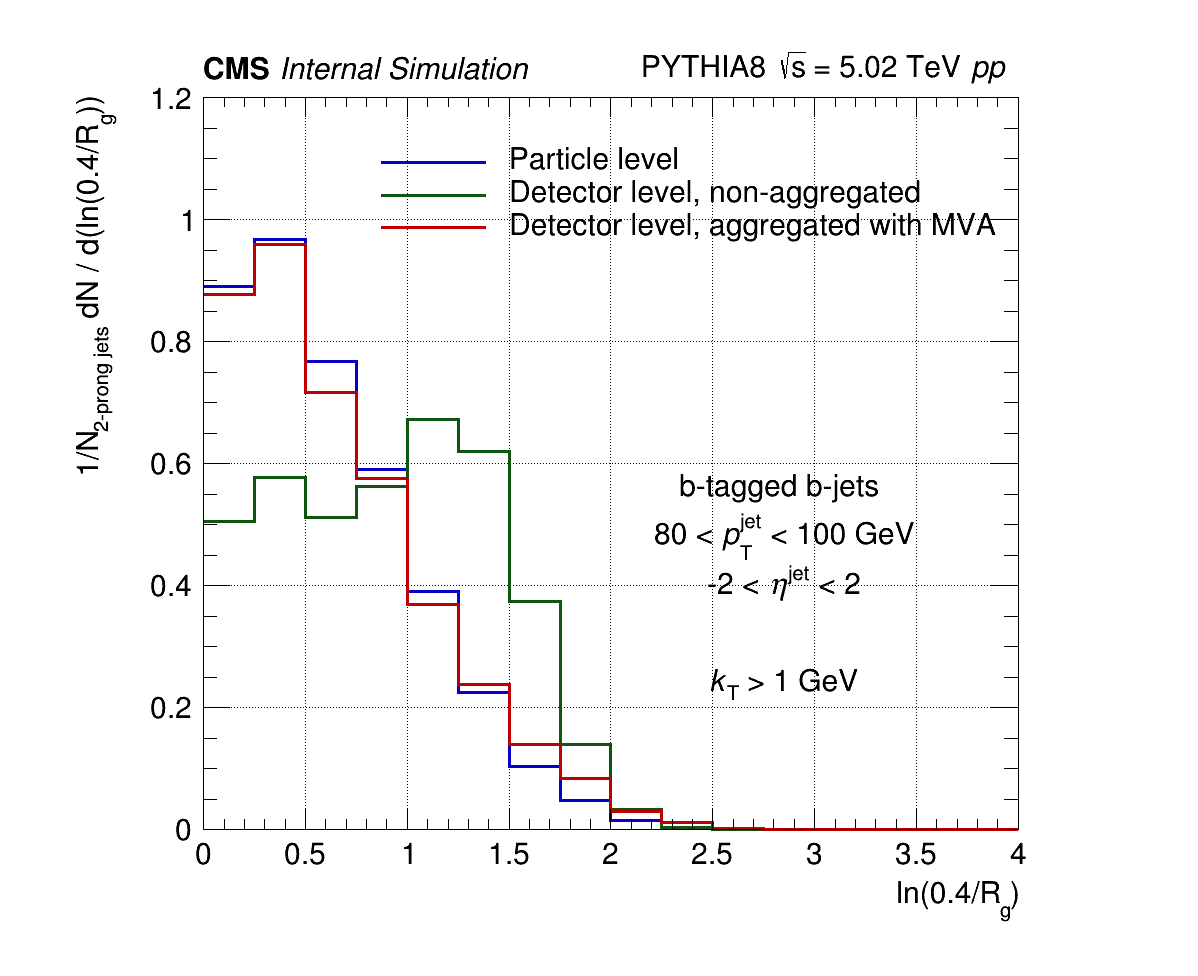
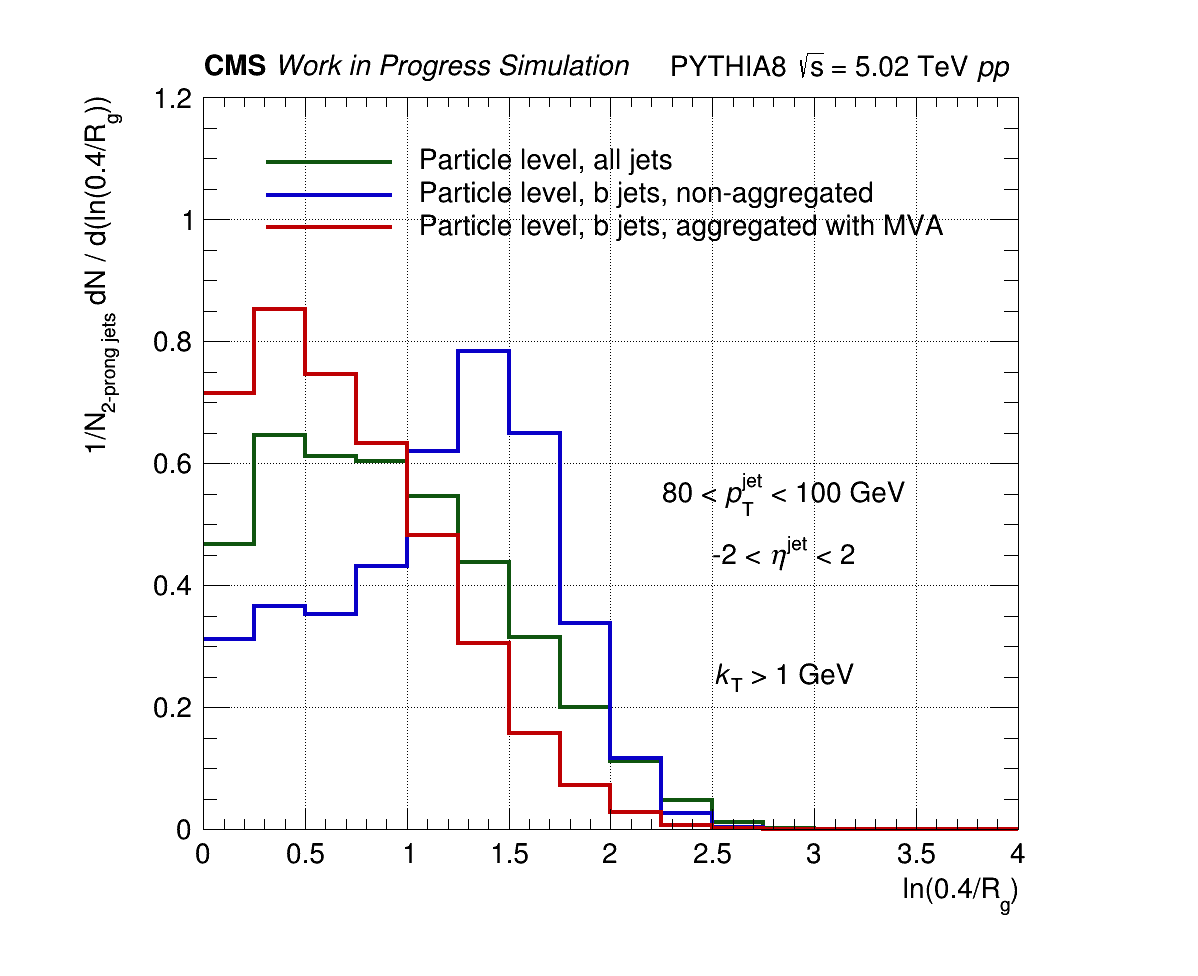
upadte rg distributions for poster

diff --git a/myMacros/C106X/plot_rg_poster.C b/myMacros/C106X/plot_rg_poster.C
@@ -2,10 +2,11 @@
 
 void plot_rg_poster()
 {
+    TString sample = "bjet";
     // TString label = "aggrGenNoReco_withY";
-    // TString label = "noAggr_withY";
-    TString label = "aggrTMVA_withY";
-    TString indir = "/data_CMS/cms/kalipoliti/qcdMC/bjet/" + label + "/";
+    TString label = "noAggr_withY";
+    // TString label = "aggrTMVA_particleNet";
+    TString indir = "/data_CMS/cms/kalipoliti/qcdMC/"+sample+"/" + label + "/";
     TString fin = indir + "merged_HiForestMiniAOD.root";
     tTree tree(fin);
     std::vector<TString> activeBranches = {"nref",
@@ -15,13 +16,14 @@ void plot_rg_poster()
                                            "rsjt2Phi", "rsjt2Y", "rsjt2Pt", "rsjt2Eta",
                                            "sjt1Phi", "sjt1Y", "sjt1Pt", "sjt1Eta",
                                            "sjt2Phi", "sjt2Y", "sjt2Pt", "sjt2Eta",
+                                           "weight"
                                            };
 
     tree.SetBranchStatus("*", 0);
     tree.SetBranchStatus(activeBranches, 1);
 
-    double ptMin = 80.;
-    double ptMax = 100.;
+    double ptMin = 100.;
+    double ptMax = 120.;
 
     double jetR = 0.4;
 
@@ -37,18 +39,25 @@ void plot_rg_poster()
     // Float_t x1min = 0.;
     // Float_t x1max = 0.5;
 
-    TH1F *hBtag_gen = new TH1F("hBtag_gen", "x=log(1/rg)", x1bins, x1min, x1max);
+    TH1F *hB_gen = new TH1F("hB_gen", "x=log(1/rg)", x1bins, x1min, x1max);
     TH1F *hL_gen = new TH1F("hL_gen", "x=log(1/rg)", x1bins, x1min, x1max);
+    TH1F *hC_gen = new TH1F("hC_gen", "x=log(1/rg)", x1bins, x1min, x1max);
+
+    TH1F *hBtag_gen = new TH1F("hBtag_gen", "x=log(1/rg)", x1bins, x1min, x1max);
+    
+    TH1F *hB = new TH1F("hB", "x=log(1/rg)", x1bins, x1min, x1max);
+    TH1F *hL = new TH1F("hL", "x=log(1/rg)", x1bins, x1min, x1max);
+    TH1F *hC = new TH1F("hC", "x=log(1/rg)", x1bins, x1min, x1max);
 
     TH1F *hBtag = new TH1F("hBtag", "x=log(1/rg)", x1bins, x1min, x1max);
-    // TH1F *hL = new TH1F("hL", "x=log(1/rg)", x1bins, x1min, x1max);
+
     TH2F *hBtag_rgkt = new TH2F("hBtag_rgkt", "x=log(1/rg), y=log(kt)", x1bins, x1min, x1max, x2bins, x2min, x2max);
     TH2F *hBtag_rgkt_gen = new TH2F("hBtag_rgkt_gen", "x=log(1/rg), y=log(kt)", x1bins, x1min, x1max, x2bins, x2min, x2max);
 
     TH2F *hBtag_2d = new TH2F("hBtag_2d", "x=reco, y=gen", x1bins, x1min, x1max, x1bins, x1min, x1max);
 
     for (Long64_t ient = 0; ient < tree.GetEntries(); ient++) {
-        if (ient > 1000000) break;
+        // if (ient > 1000000) break;
 
         if ((ient % 1000000) == 0) {
                 std::cout << "ient = " << ient << std::endl;
@@ -76,44 +85,53 @@ void plot_rg_poster()
             Float_t logrg = std::log(jetR / rg);
             Float_t logkt = std::log(kt);
 
-            bool passTag = (tree.discr_deepFlavour_b[ijet] + tree.discr_deepFlavour_bb[ijet] + tree.discr_deepFlavour_lepb[ijet]) > 0.9;
+            bool passTag = (tree.discr_deepFlavour_b[ijet] + tree.discr_deepFlavour_lepb[ijet]) > 0.7;
             
             if (tree.rsjt2Pt[ijet] > 0) {
                 if (tree.jtpt[ijet] > ptMin && tree.jtpt[ijet] < ptMax && kt_gen>1) {
                     if (tree.jtHadFlav[ijet] == 0) {
-                        hL_gen->Fill(logrg_gen);
-                    } else if (tree.jtHadFlav[ijet] == 5 && passTag) {
-                        hBtag_gen->Fill(logrg_gen);
+                        hL_gen->Fill(logrg_gen, tree.weight);
+                    } else if (tree.jtHadFlav[ijet] == 4) {
+                        hC_gen->Fill(logrg_gen, tree.weight);
+                    } else if (tree.jtHadFlav[ijet] == 5) {
+                        hB_gen->Fill(logrg_gen, tree.weight);
+                        if (passTag) hBtag_gen->Fill(logrg_gen, tree.weight);
                     }
                 }
                 if (tree.jtpt[ijet] > ptMin && tree.jtpt[ijet] < ptMax && tree.jtHadFlav[ijet] == 5 && passTag) {
-                    hBtag_rgkt_gen->Fill(logrg_gen, logkt_gen);
+                    hBtag_rgkt_gen->Fill(logrg_gen, logkt_gen, tree.weight);
                 }
             }
 
             if (tree.sjt2Pt[ijet] > 0) {
                 if (tree.jtpt[ijet] > ptMin && tree.jtpt[ijet] < ptMax && kt>1) {
                     if (tree.jtHadFlav[ijet] == 0) {
-                        // hL->Fill(rg);
-                    } else if (tree.jtHadFlav[ijet] == 5 && passTag) {
-                        hBtag->Fill(logrg);
+                        hL->Fill(rg, tree.weight);
+                    } else if (tree.jtHadFlav[ijet] == 4) {
+                        hC->Fill(rg, tree.weight);
+                    } else if (tree.jtHadFlav[ijet] == 5) {
+                        hB->Fill(logrg, tree.weight);
+                        if (passTag) hBtag->Fill(logrg, tree.weight);
                     }
                 }
                 if (tree.jtpt[ijet] > ptMin && tree.jtpt[ijet] < ptMax && tree.jtHadFlav[ijet] == 5 && passTag) {
-                    hBtag_rgkt->Fill(logrg, logkt);
+                    hBtag_rgkt->Fill(logrg, logkt, tree.weight);
                 }
             }
 
             if (tree.sjt2Pt[ijet] > 0 && tree.rsjt2Pt[ijet] > 0 && tree.jtHadFlav[ijet] == 5 && passTag) {
-                hBtag_2d->Fill(logrg, logrg_gen);
+                hBtag_2d->Fill(logrg, logrg_gen, tree.weight);
             }
         } // end jet loop
     } // end entry loop
 
-    TString foutName = "./histos_for_poster/" + label + ".root";
+    TString foutName = "./histos_for_poster/" +sample + "_" + label + "_rg.root";
     TFile *fout = new TFile(foutName, "recreate");
 
-    for (auto h : {hBtag, hBtag_gen, hL_gen}) {
+    for (auto h : {hB, hB_gen, 
+                   hBtag, hBtag_gen, 
+                   hL, hL_gen,
+                   hC, hC_gen}) {
         h->Write();
     }
     for (auto h : {hBtag_2d, hBtag_rgkt, hBtag_rgkt_gen}) {

diff --git a/myMacros/C106X/draw_rg_poster.C b/myMacros/C106X/draw_rg_poster.C
@@ -2,57 +2,74 @@
 
 void draw_rg_poster()
 {
-    Float_t font_size = 32.;
+    Float_t font_size = 30.;
 
-    TFile *fin_aggrGenNoReco = new TFile("./histos_for_poster/aggrGenNoReco_withY.root");
-    TH1F *hBtag_gen = (TH1F *) fin_aggrGenNoReco->Get("hBtag_gen");
-    TH1F *hBtag_noAggr = (TH1F *) fin_aggrGenNoReco->Get("hBtag");
-    TString temp = hBtag_noAggr->GetName() + (TString) "_noAggr";
-    hBtag_noAggr->SetName(temp);
-    TH1F *hL_gen = (TH1F *) fin_aggrGenNoReco->Get("hL_gen");
+    // no aggr b jet
+    TFile *fin_noAggr = new TFile("./histos_for_poster/bjet_noAggr_withY_rg.root");
+    TH1F *hBtag_gen_noAggr = (TH1F *) fin_noAggr->Get("hBtag_gen")->Clone("hBtag_gen_noAggr");
+    TH1F *hBtag_noAggr = (TH1F *) fin_noAggr->Get("hBtag")->Clone("hBtag_noAggr");
     
+    // aggr b jet
+    TFile *fin_aggrTMVA = new TFile("./histos_for_poster/bjet_aggrTMVA_particleNet_rg.root");
+    TH1F *hBtag_gen_aggrTMVA = (TH1F *) fin_aggrTMVA->Get("hBtag_gen")->Clone("hBtag_gen_aggrTMVA");
+    TH1F *hBtag_aggrTMVA = (TH1F *) fin_aggrTMVA->Get("hBtag")->Clone("hBtag_aggrTMVA");
 
-    TFile *fin_aggrTMVA = new TFile("./histos_for_poster/aggrTMVA_withY.root");
-    TH1F *hBtag_aggrTMVA = (TH1F *) fin_aggrTMVA->Get("hBtag");
+    // inclusive jet
+    TFile *fin_inclusive = new TFile("./histos_for_poster/dijet_aggrTMVA_particleNet_rg.root");
+    TH1F *hB_gen_inclusive = (TH1F *) fin_inclusive->Get("hB_gen")->Clone("hB_gen_inclusive");
+    TH1F *hC_gen_inclusive = (TH1F *) fin_inclusive->Get("hC_gen")->Clone("hC_gen_inclusive");
+    TH1F *hL_gen_inclusive = (TH1F *) fin_inclusive->Get("hL_gen")->Clone("hL_gen_inclusive");
+
+    TH1F *hIncl_gen = (TH1F *) hB_gen_inclusive->Clone("hIncl_gen");
+    hIncl_gen->Add(hC_gen_inclusive);
+    hIncl_gen->Add(hL_gen_inclusive);
 
     THStack *h = new THStack("h", "");
     h->SetTitle("; ln(0.4/R_{g}); 1/N_{2-prong jets} dN / d(ln(0.4/R_{g}))");
-    TLegend *leg = new TLegend(0.3, 0.75, 0.8, 0.85);
+
+    TLegend *leg = new TLegend(0.2, 0.75, 0.8, 0.85);
     leg->SetFillStyle(0);
     gStyle->SetLegendTextSize(font_size);
 
-    // hL_gen->Scale(1/hL_gen->Integral("width"));
-    // hL_gen->SetLineColor(mykRed);
-    // hL_gen->SetLineWidth(2);
-    // h->Add(hL_gen);
-    // leg->AddEntry(hL_gen, "gusd jets, particle level", "l");
 
-    hBtag_gen->Scale(1/hBtag_gen->Integral("width"));
-    hBtag_gen->SetLineColor(mykBlue);
-    hBtag_gen->SetLineWidth(3);
-    h->Add(hBtag_gen);
-    leg->AddEntry(hBtag_gen, "Particle level", "l");
+    hIncl_gen->Scale(1/hIncl_gen->Integral(),"width");
+    hIncl_gen->SetLineColor(mykGreen);
+    hIncl_gen->SetLineWidth(4);
+    h->Add(hIncl_gen);
+    leg->AddEntry(hIncl_gen, "Particle level, all jets", "l");
 
-    hBtag_noAggr->Scale(1/hBtag_noAggr->Integral("width"));
-    hBtag_noAggr->SetLineColor(mykGreen);
-    hBtag_noAggr->SetLineWidth(3);
-    hBtag_noAggr->SetLineStyle(1);
-    h->Add(hBtag_noAggr);
-    leg->AddEntry(hBtag_noAggr, "Detector level, non-aggregated", "l");
+    hBtag_gen_noAggr->Scale(1/hBtag_gen_noAggr->Integral(),"width");
+    hBtag_gen_noAggr->SetLineColor(mykBlue);
+    hBtag_gen_noAggr->SetLineWidth(4);
+    h->Add(hBtag_gen_noAggr);
+    leg->AddEntry(hBtag_gen_noAggr, "Particle level, b jets, non-aggregated", "l");
 
-    hBtag_aggrTMVA->Scale(1/hBtag_aggrTMVA->Integral("width"));
-    hBtag_aggrTMVA->SetLineColor(mykRed);
-    hBtag_aggrTMVA->SetLineWidth(3);
-    h->Add(hBtag_aggrTMVA);
-    leg->AddEntry(hBtag_aggrTMVA, "Detector level, aggregated with MVA", "l");
+    // hBtag_noAggr->Scale(1/hBtag_noAggr->Integral("width"));
+    // hBtag_noAggr->SetLineColor(mykGreen);
+    // hBtag_noAggr->SetLineWidth(3);
+    // hBtag_noAggr->SetLineStyle(1);
+    // h->Add(hBtag_noAggr);
+    // leg->AddEntry(hBtag_noAggr, "Detector level, non-aggregated", "l");
 
-    TPaveText *info_top_left = new TPaveText(0., 1.2, 1.6, 1.3, "nb ndc");
+    hBtag_gen_aggrTMVA->Scale(1/hBtag_gen_aggrTMVA->Integral(),"width");
+    hBtag_gen_aggrTMVA->SetLineColor(mykRed);
+    hBtag_gen_aggrTMVA->SetLineWidth(4);
+    h->Add(hBtag_gen_aggrTMVA);
+    leg->AddEntry(hBtag_gen_aggrTMVA, "Particle level, b jets, aggregated with MVA", "l");
+
+    // hBtag_aggrTMVA->Scale(1/hBtag_aggrTMVA->Integral("width"));
+    // hBtag_aggrTMVA->SetLineColor(mykRed);
+    // hBtag_aggrTMVA->SetLineWidth(3);
+    // h->Add(hBtag_aggrTMVA);
+    // leg->AddEntry(hBtag_aggrTMVA, "Detector level, aggregated with MVA", "l");
+
+    TPaveText *info_top_left = new TPaveText(0., 1.2, 2.1, 1.3, "nb ndc");
     info_top_left->SetTextSize(font_size);
     info_top_left->SetFillStyle(0);
     info_top_left->SetLineWidth(0);
-    info_top_left->AddText("#bf{CMS} #it{Internal Simulation}");
+    info_top_left->AddText("#bf{CMS} #it{Work in Progress Simulation}");
 
-    TPaveText *info_top_right = new TPaveText(2.1, 1.2, 4., 1.3, "nb ndc");
+    TPaveText *info_top_right = new TPaveText(2.25, 1.2, 4., 1.3, "nb ndc");
     info_top_right->SetTextSize(font_size);
     info_top_right->SetFillStyle(0);
     info_top_right->SetLineWidth(0);
@@ -62,7 +79,7 @@ void draw_rg_poster()
     info_jets->SetTextSize(font_size);
     info_jets->SetFillStyle(0);
     info_jets->SetLineWidth(0);
-    info_jets->AddText("b-tagged b-jets ");
+    // info_jets->AddText("b-tagged b-jets ");
     info_jets->AddText("80 < #it{p}_{T}^{jet} < 100 GeV");
     info_jets->AddText("-2 < #it{#eta}^{jet} < 2");
     info_jets->AddText("");
